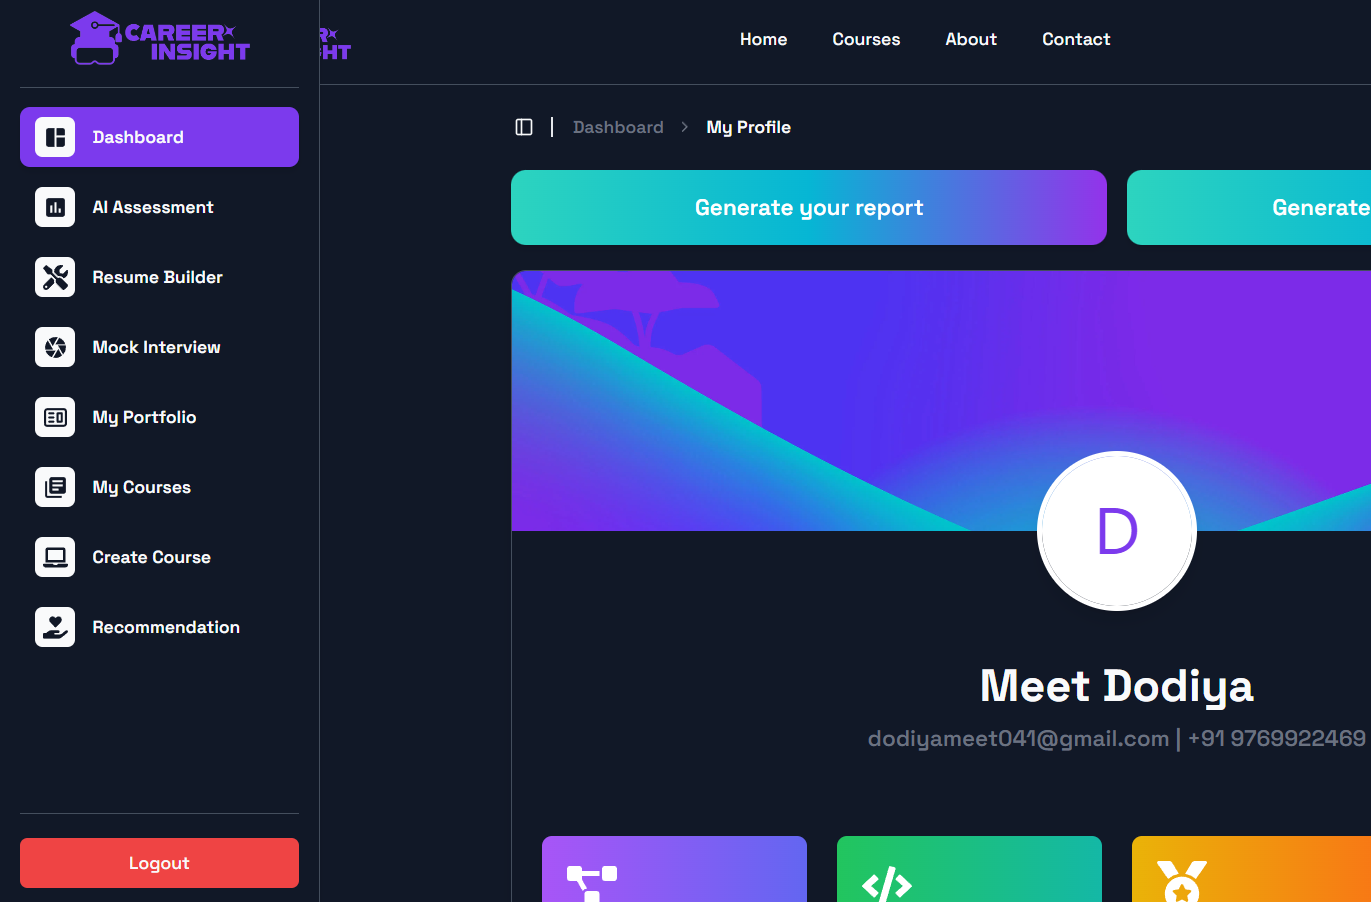
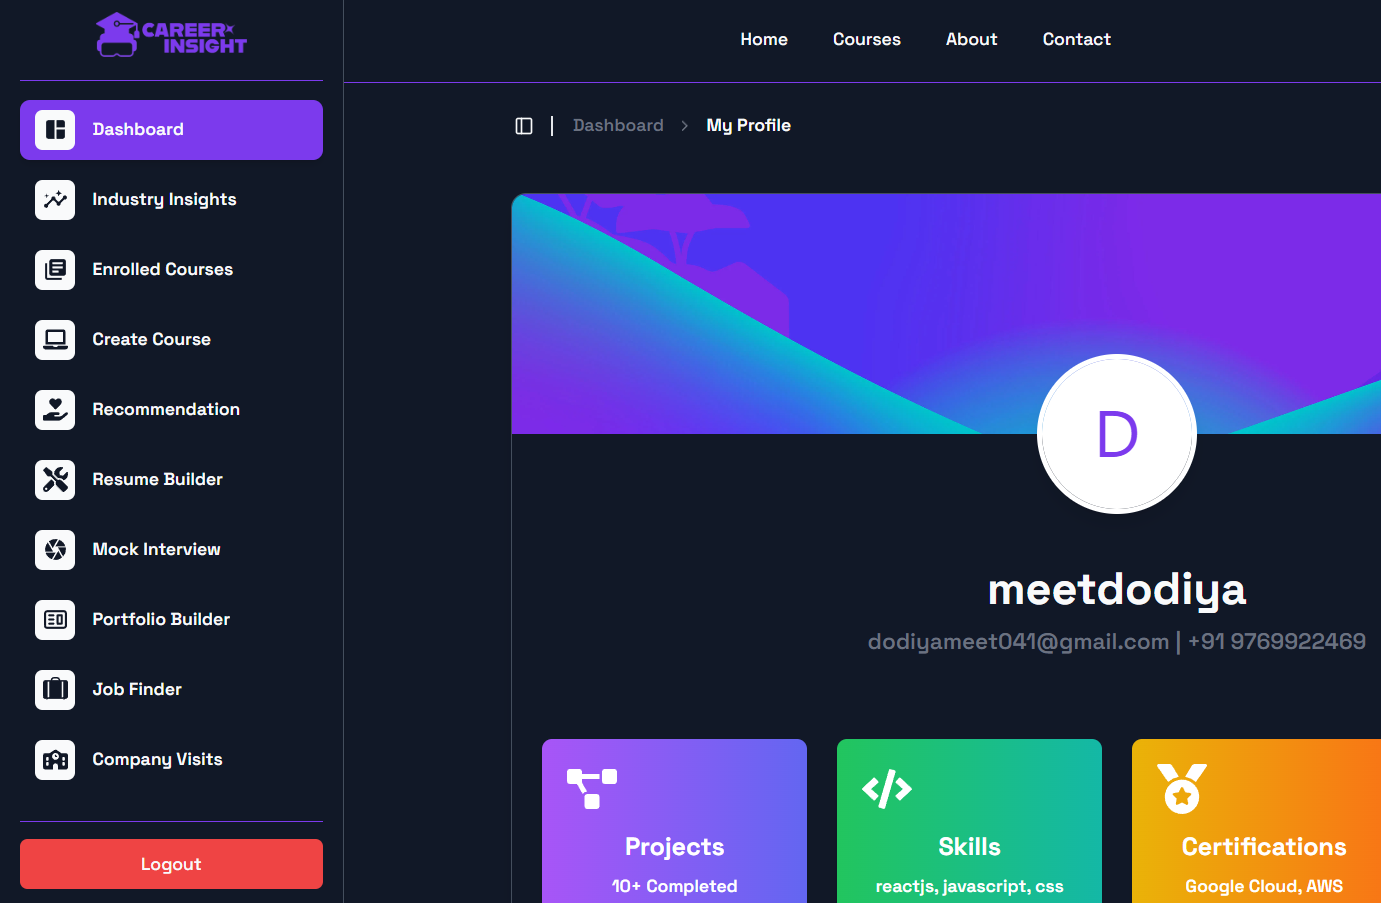
Added the category section in home page, updated the navbar and sidebar also updated the image of userdashboard in home section, added necessary margin and padding in home components

diff --git a/frontend/src/data/categorylist.jsx b/frontend/src/data/categorylist.jsx
@@ -3,50 +3,50 @@ import { FaCode, FaServer, FaCogs, FaMobileAlt, FaDatabase, FaCloud, FaSitemap, 
 export default [
     {
         id: 1,
-        name: 'Frontend Dev',
-        icon: <FaCode size={30} />,
+        name: 'Frontend',
+        icon: <FaCode size={35} />,
         prompt: 'Build modern user interfaces with HTML, CSS, and JavaScript frameworks.',
     },
     {
         id: 2,
-        name: 'Backend Dev',
-        icon: <FaServer size={30} />,
+        name: 'Backend',
+        icon: <FaServer size={35} />,
         prompt: 'Learn server-side programming, databases, and APIs.',
     },
     {
         id: 3,
-        name: 'Full Stack Dev',
-        icon: <FaCogs size={30} />,
+        name: 'Fullstack',
+        icon: <FaCogs size={35} />,
         prompt: 'Master both frontend and backend technologies.',
     },
     {
         id: 4,
-        name: 'Mobile App Dev',
-        icon: <FaMobileAlt size={30} />,
+        name: 'Mobile',
+        icon: <FaMobileAlt size={35} />,
         prompt: 'Create mobile applications for Android and iOS.',
     },
     {
         id: 5,
-        name: 'Database Management',
-        icon: <FaDatabase size={30} />,
+        name: 'Database',
+        icon: <FaDatabase size={35} />,
         prompt: 'Learn about database design, SQL, and data storage solutions.',
     },
     {
         id: 6,
-        name: 'Cloud Computing',
-        icon: <FaCloud size={30} />,
+        name: 'Cloud',
+        icon: <FaCloud size={35} />,
         prompt: 'Explore cloud platforms like AWS, Azure, and Google Cloud.',
     },
     {
         id: 7,
         name: 'DSA',
-        icon: <FaSitemap size={30} />,
+        icon: <FaSitemap size={35} />,
         prompt: 'Master essential data structures and algorithms to improve problem-solving skills.',
     },
     {
         id: 8,
         name: 'DevOps',
-        icon: <FaTools size={30} />,
+        icon: <FaTools size={35} />,
         prompt: 'Learn CI/CD, infrastructure automation, and deployment practices.',
     },
 ];

diff --git a/frontend/src/home/Category.jsx b/frontend/src/home/Category.jsx
@@ -1,0 +1,38 @@
+import React, { Fragment } from 'react'
+import categorylist from '@/data/categorylist';
+import { motion } from 'framer-motion';
+
+const Category = () => {
+    return (
+        <section className='pb-20 pt-10 overflow-x-clip'>
+            <div className='container'>
+                <h3 className='text-center text-gray-500 text-2xl font-semibold'>Our courses categories and domains to explore</h3>
+                <div className='flex overflow-hidden mt-12 [mask-image:linear-gradient(to_right,transparent,black_30%,black_90%,transparent)]'>
+                    <motion.div
+                        animate={{
+                            x: "-50%"
+                        }}
+                        transition={{
+                            duration: 25,
+                            ease: "linear",
+                            repeat: Infinity
+                        }}
+                        className='flex flex-none gap-24 pr-24'>
+                        {Array.from({ length: 2 }).map((_, index) => (
+                            <Fragment key={index}>
+                                {categorylist.map((item) => (
+                                    <div key={item.id} className='flex flex-row gap-3 items-center justify-center text-center'>
+                                        <div>{item.icon}</div>
+                                        <div className='text-xl font-medium'>{item.name}</div>
+                                    </div>
+                                ))}
+                            </Fragment>
+                        ))}
+                    </motion.div>
+                </div>
+            </div>
+        </section>
+    )
+}
+
+export default Category

diff --git a/frontend/src/home/Features.jsx b/frontend/src/home/Features.jsx
@@ -9,22 +9,22 @@ const Features = () => {
     const features = [
         {
             gif: assessmentGif,
-            title: "AI Assessment",
+            title: "Assessment",
             description: "Evaluate your skills with AI-powered assessments tailored for students",
         },
         {
             gif: resumeGif,
-            title: "AI Resume Builder",
+            title: "Resume Builder",
             description: "Create professional resumes effortlessly with intelligent suggestions",
         },
         {
             gif: interviewGif,
-            title: "AI Mock Interview",
+            title: "Mock Interview",
             description: "Prepare for your dream job with AI-driven mock interviews and feedback",
         },
         {
             gif: insightGif,
-            title: "AI Industry Insights",
+            title: "Industry Insights",
             description: "AI Industry Insights for trends to guide you toward your career goals",
         },
     ];
@@ -48,7 +48,7 @@ const Features = () => {
                                 src={feature.gif}
                                 alt={feature.title}
                             />
-                            <h3 className="text-xl font-bold">{feature.title}</h3>
+                            <h3 className="text-xl font-bold"><span className='bg-primary text-white px-2 rounded-md'>AI</span> {feature.title}</h3>
                             <p className="mt-2 text-gray-500 font-medium">{feature.description}</p>
                         </div>
                     ))}

diff --git a/frontend/src/Dashboard/AppSidebar.jsx b/frontend/src/Dashboard/AppSidebar.jsx
@@ -90,7 +90,7 @@ const AppSidebar = () => {
             </SidebarHeader>
 
             <SidebarContent className="flex flex-col px-4" style={{ backgroundColor: `var(--background-color)` }}>
-                <Separator orientation="horizontal" className="my-1.5 h-[0.2px]" style={{ backgroundColor: `var(--borderColor)` }} />
+                <Separator orientation="horizontal" className="my-1.5 h-[0.2px] bg-primary" />
                 <SidebarMenu>
                     {data.navMain.map((item, index) => {
                         const isActive = location.pathname === item.url;
@@ -111,10 +111,10 @@ const AppSidebar = () => {
                         );
                     })}
                 </SidebarMenu>
-                <Separator orientation="horizontal" className="my-1.5 h-[0.2px]" style={{ backgroundColor: `var(--borderColor)` }} />
             </SidebarContent>
 
             <SidebarFooter className="p-4" style={{ backgroundColor: `var(--background-color)`, color: `var(--text - color)` }}>
+                <Separator orientation="horizontal" className="my-1.5 h-[0.2px] bg-primary" />
                 <Button
                     variant="destructive"
                     onClick={handleLogout}

diff --git a/frontend/src/home/Navbar.jsx b/frontend/src/home/Navbar.jsx
@@ -40,7 +40,7 @@ const Navbar = () => {
     }, [toggleTheme]);
 
     return (
-        <div className='flex items-center justify-between text-sm py-4 mb-5 border-b' style={{ borderColor: `var(--borderColor)` }}>
+        <div className='flex items-center justify-between text-sm py-4 mb-5 border-b border-primary'>
             <img src={logo} className='w-auto h-9 cursor-pointer' alt='CAREER INSIGHT' onClick={() => navigate("/")} />
             <ul className='hidden md:flex items-center justify-center gap-5 font-medium list-none'>
                 <NavLink to="/">
@@ -57,9 +57,7 @@ const Navbar = () => {
                 </NavLink>
             </ul>
             <div className='flex items-center gap-2'>
-                <Button size="sm" variant="ghost" className="border" onClick={toggleTheme} style={{
-                    borderColor: `var(--borderColor)`,
-                }}>
+                <Button size="sm" variant="ghost" className="border border-primary" onClick={toggleTheme}>
                     {theme === "dark" ? <BsFillMoonStarsFill className="h-5 w-5 text-primary" /> : <BsFillSunFill className="h-5 w-5 text-primary" />}
                 </Button>
                 {isLoggedIn ?

diff --git a/frontend/src/home/Footer.jsx b/frontend/src/home/Footer.jsx
@@ -18,10 +18,10 @@ const quickLinks = [
 
 const Footer = () => {
     return (
-        <footer className="px-8 pt-10 pb-5 w-full font-montserrat mt-20 text-white bg-black/80 rounded-t-2xl">
+        <footer className="px-8 pt-10 pb-5 w-full font-montserrat mt-32 text-white bg-black/80 rounded-t-2xl">
             <div className="grid grid-cols-1 md:grid-cols-3 gap-8 max-w-screen-2xl mx-auto">
                 <div className="flex flex-col items-center md:items-start p-4">
-                    <img src={logo} alt="Logo" className="w-40 mb-4" />
+                    <img src={logo} alt="Logo" className="w-auto h-12 mb-4" />
                     <h2 className="font-bold text-primary text-3xl mb-4">For Source Code</h2>
                     <ul className="flex list-none p-0 gap-2">
                         {socialLinks.map((link) => (

diff --git a/frontend/src/pages/Home.jsx b/frontend/src/pages/Home.jsx
@@ -1,4 +1,5 @@
 import { useTheme } from '@/components/ui/themeprovider'
+import Category from '@/home/Category'
 import FAQ from '@/home/FAQ'
 import Features from '@/home/Features'
 import Hero from '@/home/Hero'
@@ -22,6 +23,7 @@ const Home = () => {
             <div className="absolute inset-0 -z-10 h-full w-full"><div className="absolute bottom-auto left-auto right-0 top-0 h-[500px] w-[500px] -translate-x-[30%] translate-y-[20%] rounded-full bg-[rgba(37,99,235,0.5)] opacity-50 blur-[80px]"></div></div>
 
             <Hero />
+            <Category />
             <Features />
             <WebDetails />
             <FAQ />

diff --git a/frontend/src/home/FAQ.jsx b/frontend/src/home/FAQ.jsx
@@ -65,7 +65,7 @@ const FAQ = () => {
     ];
 
     return (
-        <div className="mb-10">
+        <div className="mb-10 pt-12">
             <div className="flex flex-col items-center gap-5 px-4 my-20">
                 <h1 className='text-2xl md:text-3xl font-bold text-center'>
                     Frequently <span className="text-primary">Asked Questions</span>

diff --git a/frontend/src/AICourse/CreateCourseForm/SelectCategory.jsx b/frontend/src/AICourse/CreateCourseForm/SelectCategory.jsx
@@ -1,4 +1,3 @@
-import { Label } from '@/components/ui/label';
 import categorylist from '@/data/categorylist';
 import React from 'react';
 
